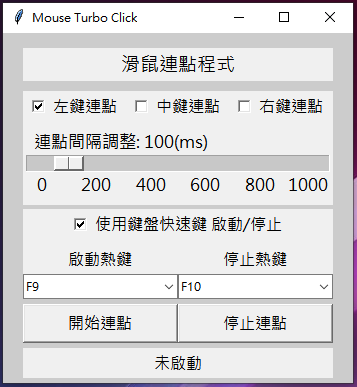
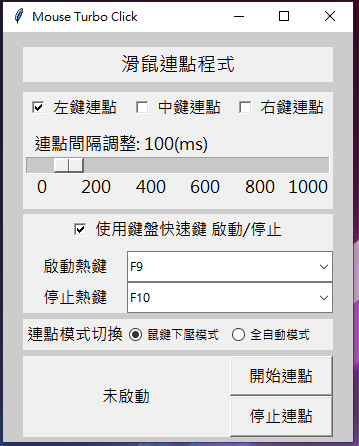
1. 新增防錯, 原先滑鼠保持下壓時 同時執行連點, 會有預期外錯誤 2. 調整部分參數名稱, 增加可讀性

diff --git a/mouseTurboClick.py b/mouseTurboClick.py
@@ -4,49 +4,52 @@ from time import sleep
 from pynput.mouse import Button, Controller
 
 class mouseTurboClick(threading.Thread):
-    def __init__(self, mouseHook: globalMouseHook, interval=0.1, isLeftOn=False, isRightOn=False, isMiddleOn=False, autoMode=0):
+    def __init__(self, mouseHook: globalMouseHook, interval=0.1, leftOn=False, rightOn=False, middleOn=False, autoMode=0):
         threading.Thread.__init__(self, daemon=True) # 設為守護執行緒，當主程序結束後，子執行緒會自動停止
         self.mouseHook = mouseHook
         self.mouse = Controller()
-        self.set_attributes(interval, isLeftOn, isRightOn, isMiddleOn, autoMode)
-        self.isRun = True # 用來動態停止無限回圈的flag
+        self.set_attributes(interval, leftOn, rightOn, middleOn, autoMode)
+        self.running = True # 用來動態停止無限回圈的flag
 
-    def set_attributes(self, interval, isLeftOn, isRightOn, isMiddleOn, autoMode):
+    def set_attributes(self, interval, leftOn, rightOn, middleOn, autoMode):
         self.interval = interval # 設定連點間距
         if interval < 0.01: # 避免間距為0
             self.interval = 0.01
-        self.isLeftOn = isLeftOn # 左鍵連點是否開啟
-        self.isRightOn = isRightOn # 右鍵連點是否開啟
-        self.isMiddleOn = isMiddleOn # 中鍵連點是否開啟
+        self.leftOn = leftOn # 左鍵連點是否開啟
+        self.rightOn = rightOn # 右鍵連點是否開啟
+        self.middleOn = middleOn # 中鍵連點是否開啟
         self.autoMode = autoMode # 設定連點模式, 0為下壓模式, 1為全自動模式
 
     def full_auto_mode(self):
         ''' 只要啟動就持續連點, 故稱全動自動模式'''
-        while self.isRun:
-            if self.isLeftOn:
+        while self.running:
+            if self.leftOn:
                 self.mouse.click(Button.left)
-            if self.isRightOn:
+            if self.rightOn:
                 self.mouse.click(Button.right)
-            if self.isMiddleOn:
+            if self.middleOn:
                 self.mouse.click(Button.middle)
             sleep(self.interval)
 
     def semi_auto_mode(self):
         ''' 鼠鍵要保持下壓才會連點, 故稱半動自動模式'''
-        while self.isRun:
-            if (self.isLeftOn and self.mouseHook.is_leftDown()):
+        while self.running:
+            if (self.leftOn and self.mouseHook.leftPressed):
                 self.mouse.click(Button.left)
-            if (self.isRightOn and self.mouseHook.is_rightDown()):
+            if (self.rightOn and self.mouseHook.rightPressed):
                 self.mouse.click(Button.right)
-            if (self.isMiddleOn and self.mouseHook.is_middleDown()):
+            if (self.middleOn and self.mouseHook.middlePressed):
                 self.mouse.click(Button.middle)
             sleep(self.interval)
 
     def run(self):
-        if self.autoMode is 0:
+        while self.mouseHook.pressedEvent:
+            sleep(0.5) # 如果thread執行當下, 滑鼠鍵是下壓狀態就sleep, 等待滑鼠鍵鬆開
+        
+        if self.autoMode == 0:
             self.semi_auto_mode()
         else:
             self.full_auto_mode()
     
     def stop(self):
-        self.isRun = False
+        self.running = False

diff --git a/myGlobalHook.py b/myGlobalHook.py
@@ -8,36 +8,34 @@ class globalMouseHook():
             on_click=self.on_click)
         self.listener.start()
         
-        self.isLeftDown = False
-        self.isRightDown = False
-        self.isMiddleDown = False
+        self.pressedEvent = False
+        self.leftPressed = False
+        self.rightPressed = False
+        self.middlePressed = False
 
     def on_move(self, x, y):
         # print('Pointer at {0}'.format((x, y)))
         return
 
     def on_click(self, x, y, button, pressed):
-        # print('{0} at {1} with {2}'.format('Pressed' if pressed else 'Released', (x, y), button))
-        if button == mouse.Button.left:
-            self.isLeftDown = not self.isLeftDown
-        if button == mouse.Button.right:
-            self.isRightDown = not self.isRightDown
-        if button == mouse.Button.middle:
-            self.isMiddleDown = not self.isMiddleDown
-        
-    def is_leftDown(self):
-        return self.isLeftDown
+        print('{0} at {1} with {2}'.format('Pressed' if pressed else 'Released', (x, y), button))
+        if pressed:
+            self.pressedEvent = True
+        else:
+            self.pressedEvent = False
 
-    def is_rightDown(self):
-        return self.isRightDown
-    
-    def is_middleDown(self):
-        return self.isMiddleDown 
-    
+        if button == mouse.Button.left:
+            self.leftPressed = not self.leftPressed
+        elif button == mouse.Button.right:
+            self.rightPressed = not self.rightPressed
+        elif button == mouse.Button.middle:
+            self.middlePressed = not self.middlePressed
+        
     def return_default(self):
-        self.isLeftDown = False
-        self.isRightDown = False
-        self.isMiddleDown = False
+        self.pressedEvent = False
+        self.leftPressed = False
+        self.rightPressed = False
+        self.middlePressed = False
 
     def stop(self):
         if self.listener is not None:

diff --git a/README.md b/README.md
@@ -6,9 +6,9 @@
 
 ## 執行方式
 
-<font color=#E60000>win10 64bit</font>的系統下執行<font color=#E60000>MouseTurboClick.exe</font>  
-此檔案是用pyinstaller打包好的exe檔  
-但受限於pyinstaller打包的限制，檔案無法在win7使用  
+win10 64bit 直接執行 MouseTurboClick.exe  
+此檔案是用pyinstaller打包的exe檔  
+但受限於pyinstaller限制，檔案無法在win7使用  
 另外我電腦python是64 bit的，理論上打包出來的exe 不能在32bit系統上執行  
 
 ## 若用指令方式執行
@@ -16,15 +16,16 @@
 ```python
   python GUI.py
 ```
-另外補充，我有發現同樣的code，在macOS 上無法如期運行，這部份我應該不處理  
 
 ## 使用說明
 
-要特別提醒一下，本程式觸發滑鼠連點的方式  
-跟目前網路上可以找到的連點程式都<font color=#E60000>不相同</font>  
-目前網上幾乎都是由鍵盤觸發(ex. F9開始連點、F10停止連點)  
-本程式是連點啟動後，<font color=#E60000>壓住要連發的滑鼠鍵</font>，才會自動連點  
-(要連點左鍵就壓住左鍵，要連點右鍵就壓住右鍵)  
+本程式有兩種模式，觸發連點的方式不同  
+1. 鼠鍵下壓模式: 連點啟動後，只有壓住滑鼠鍵時，才會自動連點  
+ex. 要連點左鍵就壓住左鍵，要連點右鍵就壓住右鍵  
+2. 全自動模式: 與網上找到的連點程式相同，由鍵盤觸發  
+ex. 鍵盤按下F9後，會開始自動連點，直到鍵盤按下F10才會停止  
+
+另外補充，我有發現code在macOS上，下壓模式 會無法如期運行，這部份我應該不會處理  
 
 ## 檔案架構
 
